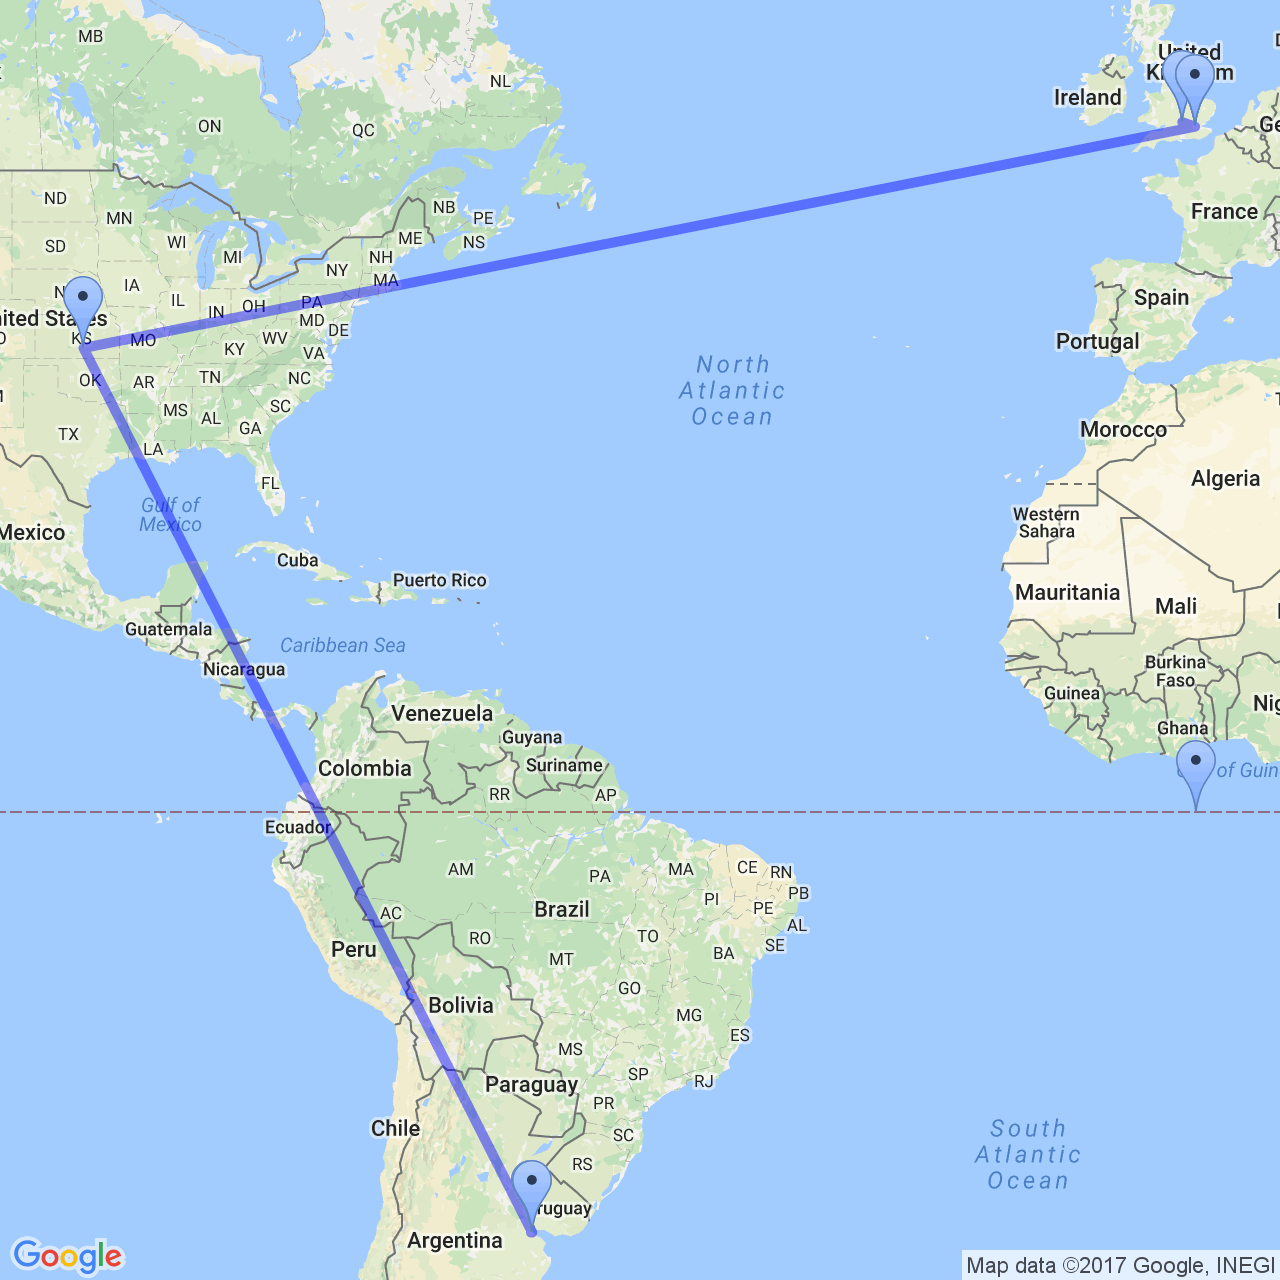
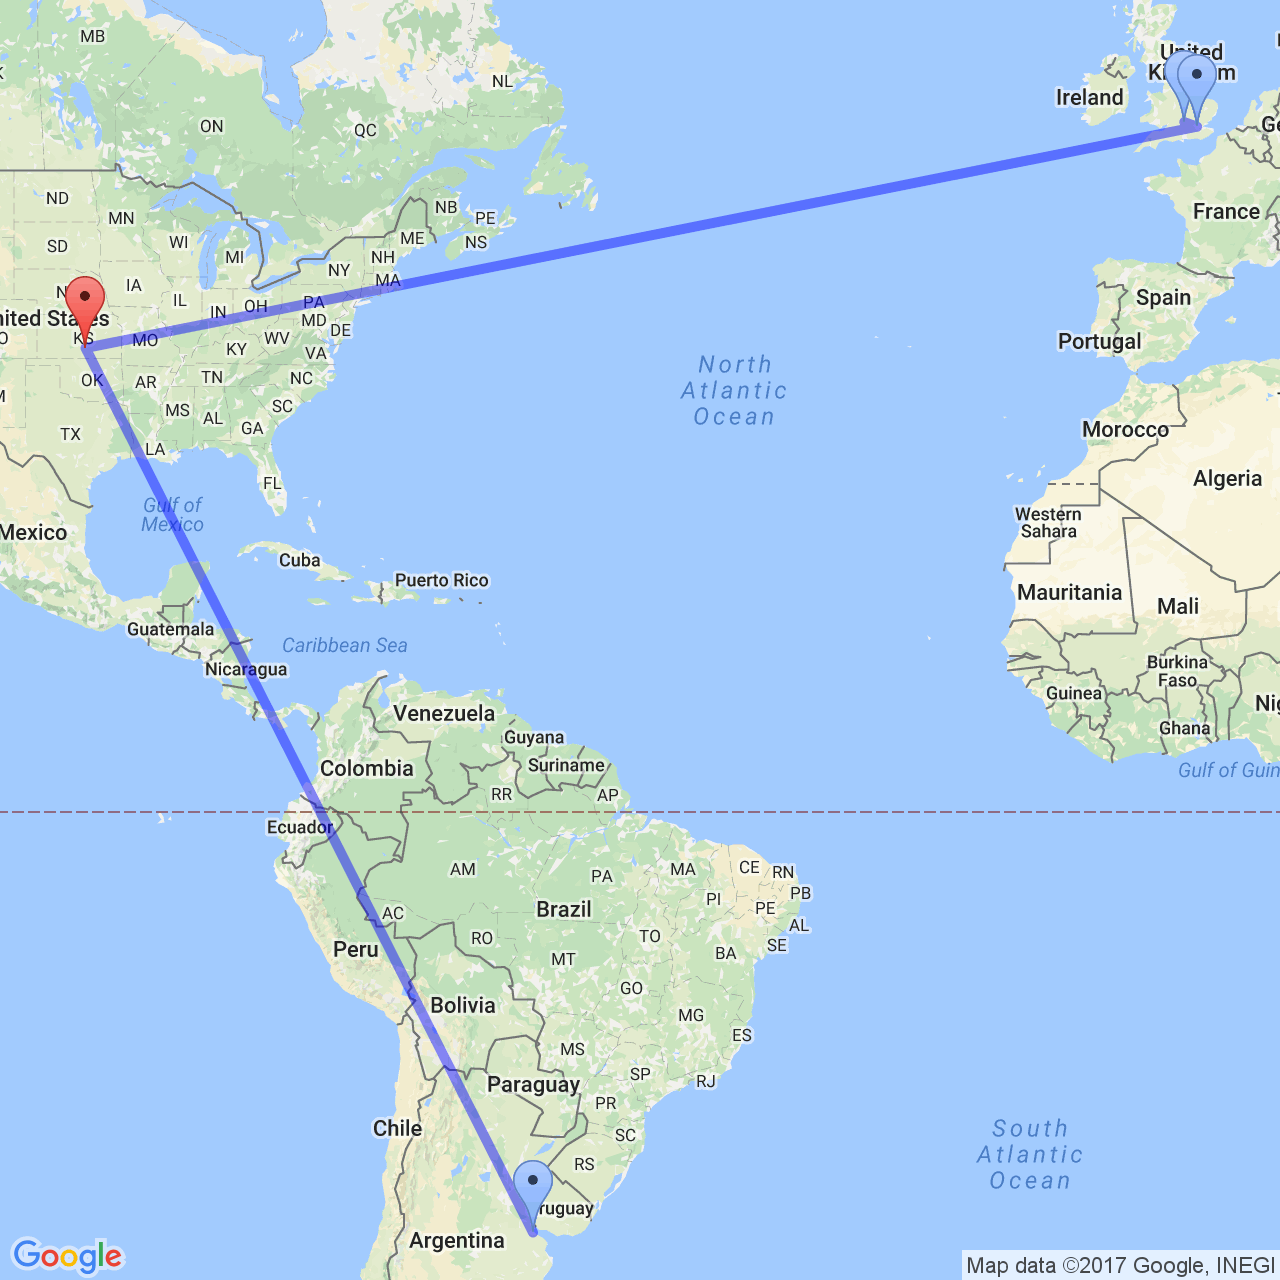
graficos y doc

diff --git a/tp2/src/tp2.py b/tp2/src/tp2.py
@@ -17,9 +17,6 @@ RTTS = 1
 
 SRC = 0
 
-DELTA = 0
-INDICE_IP = 1
-
 #arranca en 3
 tau = [
  	    1.1511 ,	
@@ -61,11 +58,14 @@ tau = [
 ]	
 
 class Hop():
-	def __init__(self, ip, rtt):
+	def __init__(self, ttl, ip, rtt):
 		self._ip = ip
-		self._rtt = float(rtt)
+		self._drtt = None
+		self._zrtt = None
+		self._rtt = rtt
 		self._outlier  = False
 		self._coords = None
+		self._ttl = ttl
 		
 	def IP(self):
 		return self._ip
@@ -81,11 +81,32 @@ class Hop():
 		
 	def RTT(self):
 		return self._rtt
-	def setOutlier(self, outlier = True):
+		
+	def TTL(self):
+		return self._ttl
+		
+	def setDeltaRTT(self, drtt):
+		self._drtt = drtt
+		
+	def deltaRTT(self):
+		return self._drtt 
+		 
+	def setZRTT(self, zrtt):
+		self._zrtt = zrtt
+		
+	def ZRTT(self):
+		return self._zrtt 
+		
+	def setOutlier(self, outlier = True, thresholdCrossed = None):
 		self._outlier = outlier
+		self._threshold = thresholdCrossed
+		
 	def isOutlier(self):
 		return self._outlier 
 	
+	def thresholdCrossed(self):
+		return self._threshold 
+		
 def toString(pkt):
 	return pkt.summary()
 	
@@ -106,18 +127,14 @@ def main():
 	iteraciones = int(args.get('maxiter'))
 	reply = False
 	saltos = [] # Hop[]
-	esta = [] # si la ip iesima esta considerada en el calculo de los delta. SI lo esta
-	#contiene al indice del arreglo rttsDelta. Si no, -1.
-	rttsZ = []
-	rttsDelta = [] # (Delta RTT, indice en saltos[IP])
-
+	
 	while hops > 0:
 	
 		respuestas=[[],[]] #[ips del ttl], [[rtts de esa ip]]]
 		
 
 		for x in range(0, iteraciones):
-			pid+=x
+			pid += x
 			ans, unans = sr(IP(dst=args.get('dest'), ttl=ttl) / ICMP(id = pid), verbose=False, timeout=float(args.get('timeout')))
 		
 			if len(ans) > 0:
@@ -135,18 +152,13 @@ def main():
 						break # llegamos
 
 		if not respuestas[IPS]: #Si nadie me respondio, no se cual es el hop.
-				respuestas[IPS].append(-1)
-				respuestas[RTTS].append([0])
-
-		#calculo datos del de mayor aparicion.
-
-		max_indice = respuestas[RTTS].index(max(respuestas[RTTS], key=len))
-		#print max_indice
-		#saco promedio.
-		media = np.mean(respuestas[RTTS][max_indice])
-
-		saltos.append(Hop(respuestas[IPS][max_indice], media))
-	
+			saltos.append(Hop(ttl, None, None))
+		else:
+			#calculo datos del de mayor aparicion.
+			max_indice = respuestas[RTTS].index(max(respuestas[RTTS], key=len))
+			media = np.percentile(respuestas[RTTS][max_indice], 90)
+			saltos.append(Hop(ttl, respuestas[IPS][max_indice], media))
+			
 		if reply:
 			break
 
@@ -155,117 +167,70 @@ def main():
 
 	####### Calculo diferencia entre saltos #####
 
-	max_rtts_Delta = next(x for x in saltos if x.RTT() > 0) # DR: max? primero con valor logico?
-	indice_max_rtts_Delta = saltos.index(max_rtts_Delta)
-	#rttsDelta.append((max_rtts_Delta, indice_max_rtts_Delta))
-	for j in range(0,indice_max_rtts_Delta+1):
-		esta.append(-1)
-	#esta.append(-1)
-
-	for i in range(indice_max_rtts_Delta+1,len(saltos)):
-
-		if saltos[i].IP() == -1:	#no contestaron.
-			esta.append(-1)
+	saltos_analizables = [x for x in saltos if not x.RTT() is None and not x.IP() is None]
+	ultimo_salto_delta = None
+	for i in saltos_analizables:
+		if ultimo_salto_delta is None:
+			ultimo_salto_delta = i
 			continue
-		dif = saltos[i].RTT()-max_rtts_Delta.RTT() #calculo dif entre saltos
-		if dif >= 0: #agrego solo si da mayor o igual.
-			rttsDelta.append((dif,i))
-			esta.append(len(rttsDelta)-1)	#appendeo el indice donde esta la iesima ip en rttsDelta
-			max_rtts_Delta = saltos[i]
-		else:
-			esta.append(-1)	
-
+		dif = i.RTT() - ultimo_salto_delta.RTT()
+		if dif > 0:
+			i.setDeltaRTT(dif)
+		ultimo_salto_delta = i
+			
+	rttsDelta = [x.deltaRTT() for x in saltos if not x.deltaRTT() is None]
 	rttDeltaPromedio = np.mean(rttsDelta)  #promedio y desvio de los saltos.
 	rttDeltaDesvio = np.std(rttsDelta)	
-
-	## Zrtt
-
-	for i in range(0,len(rttsDelta)):
-		#if esta[i]:
-		rttsZ.append(abs(rttsDelta[i][DELTA]-rttDeltaPromedio)/rttDeltaDesvio)
-
+	
+	for i in saltos_analizables:
+		if not i.deltaRTT() is None:
+			i.setZRTT((abs(i.deltaRTT()-rttDeltaPromedio)/rttDeltaDesvio))
+	
 	#calculo  de outliers
 	hay_outlier = True
-	rttsDelta_outlier = rttsDelta #para iterar en el otulier
-
 
 	while(hay_outlier):
 		desv_abs = []
-
+		posibles_outliers = [x for x in saltos_analizables if not x.deltaRTT() is None and not x.isOutlier()]
 		#calculo la desvio absoluto de los delta que quedan y los ordeno.
-		for x in range(0,len(rttsDelta_outlier)):			
-			bisect.insort(desv_abs,(abs(rttsDelta_outlier[x][DELTA]-rttDeltaPromedio),rttsDelta_outlier[x][INDICE_IP]))
+		for x in posibles_outliers:	
+			bisect.insort(desv_abs,(abs(x.deltaRTT()-rttDeltaPromedio), x))
 	
 		#Calculo tau de Thompson
 		thompson = tau[len(desv_abs)-3]
 
 		#outlier. Si el mas grande es mayor a tau por el desvio.
-		desv_abs_mas_grande = desv_abs[-1]
-		if desv_abs_mas_grande[DELTA] > (thompson*rttDeltaDesvio):
-			# del(rttsDelta_outlier[esta[desv_abs[-1][INDICE_IP]]])
-			#del(rttsDelta_outlier[esta[desv_abs[-1][INDICE_IP]]])
-			#Lo marco como outlier
-			saltos[desv_abs_mas_grande[INDICE_IP]].setOutlier(True)
-
-			#Lo borro de la lista de desvios absolutos
-			#rttsDelta_outlier = [(x for x in saltos[RTTS] if x[INDICE_IP] == desv_abs[-1][IND
-			
-			for x in xrange(1,10):
-					pass	
-			rttsDelta_outlier = [x for x in rttsDelta_outlier if x[INDICE_IP] != desv_abs_mas_grande[INDICE_IP]]
-
-			#Recalculo promedo y desvio y vuelvo a empezar
-			temp = [y[DELTA] for y in rttsDelta_outlier]
-			promedio_outlier = np.mean(temp) # DR ??
-			desvio_outlier = np.std(temp)
-
+		(delta, salto) = desv_abs[-1]
+		if delta > (thompson * rttDeltaDesvio):
+			salto.setOutlier(True, thresholdCrossed = thompson * rttDeltaDesvio)
 		else: 
+			print salto.IP(), "no llego a", thompson * rttDeltaDesvio, "con", delta
 			hay_outlier = False
 
 	#imprimo resultados.		
 		
 	col_width_ips_avg = max(len(str(word.IP())) for word in saltos) + 2
 	col_width_rtts_acum = max(len(str(word.RTT())) for word in saltos) + 2
-	col_width_rtt_delta = max(len(str(word)) for word in rttsDelta) + 2
-	col_width_rtt_z = max(len(str(word)) for word in rttsZ) + 2
+	col_width_rtt_delta = max(len(str(word.deltaRTT())) for word in saltos) + 2
+	col_width_rtt_z = max(len(str(word.ZRTT())) for word in saltos) + 2
 
-	print "TTL".ljust(8), \
+	print "TTL".ljust(6), \
 	"IP".ljust(col_width_ips_avg), \
 	"RTT".ljust(col_width_rtts_acum), \
 	"dRTT".ljust(col_width_rtt_delta), \
 	"zdRTT".ljust(col_width_rtt_z), \
 	"OUTLIER? "
 
-	imprimio = False
 	points = []
-	for i in range(len(saltos)):
-		imprimio = True
-		responde = saltos[i].IP() 
-			#Si responde y si lo hace, devuelve indice de esa ip en la lista de deltas.
-		if responde != -1: #responde
-			delta_index = esta[i]
-			if delta_index != -1: # se lo considera en el calculo del delta.
-				print str(i).ljust(8), \
-				str(saltos[i].IP()).ljust(col_width_ips_avg), \
-				str(saltos[i].RTT()).ljust(col_width_rtts_acum), \
-				str(rttsDelta[delta_index][DELTA]).ljust(col_width_rtt_delta), \
-				str(rttsZ[delta_index]).ljust(col_width_rtt_z), \
-				"OUTLIER!" if saltos[i].isOutlier() else ""
-				points.append(saltos[i])
-			else:
-				print str(i).ljust(8), \
-				str(saltos[i].IP()).ljust(col_width_ips_avg), \
-				str(saltos[i].RTT()).ljust(col_width_rtts_acum), \
-				str(-1).ljust(col_width_rtt_delta), \
-				str(-1).ljust(col_width_rtt_z)
-				points.append(saltos[i])
-				
-		else: #No responde
-			print str(i).ljust(8), \
-			str("???").ljust(col_width_ips_avg), \
-			"NA".ljust(col_width_rtts_acum), \
-			"NA".ljust(col_width_rtt_delta), \
-			"NA".ljust(col_width_rtt_z)
+	for i in saltos:
+		print str(i.TTL()).ljust(6), \
+				strDisplay(i.IP(), "?").ljust(col_width_ips_avg), \
+				numDisplay(i.RTT(), suffix= "ms").ljust(col_width_rtts_acum), \
+				numDisplay(i.deltaRTT(), suffix= "ms").ljust(col_width_rtt_delta), \
+				numDisplay(i.ZRTT()).ljust(col_width_rtt_z), \
+				"OUTLIER!" if i.isOutlier() else ""
+		if not i.IP() is None:
+			points.append(i)
 	
 	if bool(args.get('graficar-rutas')):
 		imgs = graficarMapas(points)
@@ -275,21 +240,32 @@ def main():
 	if bool(args.get('graficar-rtts')):
 		graficarInfo(points)
 		
+def numDisplay(obj, default = "-", suffix = ""):
+	if obj is None:
+		return default
+	return str(round(float(obj), 2)) + " " + suffix
+	
+def strDisplay(obj, default = "-", suffix = ""):
+	if obj is None:
+		return default
+	return str(obj) + suffix
+	
 def graficarInfo(points):
 	ind = range(len(points))
 	fig, ax = plt.subplots()
 	ax.bar(ind, [x.RTT() for x in points], 0.75)
-	rtts=plt.axhline(y=1, label='tau', color='red', ls='--') # TODO
-	plt.legend(handles=[rtts])
+	tau = [x.thresholdCrossed() for x in points if x.isOutlier()]
+	if len(tau) > 0:
+		minTau = min(tau)
+		tauLine = plt.axhline(y=tau, label='threshold', color='green', ls='--')
+		plt.legend(handles=[tauLine])
 	plt.xticks(list(map(lambda x: x-0.4, ind)), [x.IP() for x in points], rotation=45)
-	ax.set_title("TODO")
-	ax.set_ylabel('rtts', color='b')
+	ax.set_title("Saltos vs RTTs")
+	ax.set_ylabel('RTT (ms)', color='b')
 	
-	#TODO
-	#ax_twinx = ax.twinx()
-	#s2 = np.sin(2 * np.pi * t)
-	#ax_twinx.plot(t, s2, 'r.')
-	#ax_twinx.set_ylabel('sin', color='r')
+	ax_twinx = ax.twinx()
+	ax_twinx.plot(ind, [0 if x.ZRTT() is None else x.ZRTT() for x in points], 'r-', linewidth=3)
+	ax_twinx.set_ylabel('ZRTT (ms)', color='r')
 	
 	plt.tight_layout()
 	plt.show()
@@ -303,6 +279,7 @@ def graficarMapas(points):
 			if len(temp) > 1:
 				imgs.append(graficarMapa(temp))
 			temp = []
+			continue
 		if not p in temp:
 			temp.append(p)
 		
@@ -321,7 +298,7 @@ def graficarMapa(points):
 			continue
 		(lt, ln) = coords
 		paths += ("" if first else "|") + str(lt) + "," + str(ln)
-		markers += "&markers=color:blue|label:" + p.IP() + "|" + str(lt) + "," + str(ln)
+		markers += "&markers=color:"+ ("red" if p.isOutlier() else "blue" )+"|label:" + p.IP() + "|" + str(lt) + "," + str(ln)
 		first = False
 	return img + paths + markers
 	

diff --git a/tp2/docs/informe/modules/Experimentos_UK.tex b/tp2/docs/informe/modules/Experimentos_UK.tex
@@ -1,2 +1,69 @@
-\subsection{UK}
+\subsection{Gran Breta~na}
+En esta instancia de experimentaci'on vamos a analizar las rutas a la universidad de Oxford, ubicada en Inglaterra, utilizando la direcci'on \textit{ox.ac.uk}. 
+El origen del mensaje es una direcci'on en Argentina y en un principio esperamos, basados en los mapas de cables submarinos, ver 2 o m'as saltos intercontinentales. Si bien
+existen caminos con 2 saltos intercontinentales, podria ser 3 si una ruta pasa por europa continental. 
 
+Utilizando 30 repeticiones por cada TTL conseguimos los siguientes datos
+
+
+\begin{tabular}{ |p{2cm}||p{3cm}|p{3cm}|p{3cm}|  }
+ \hline
+ \multicolumn{4}{|c|}{Traceroute a Oxford} \\
+ \hline
+ \textit{TTL} & \textit{IP}  & \textit{RTT} & $\delta$\textit{RTT} \\
+ \hline
+ 0   & 192.168.1.1   & 2.18 ms &   -\\
+ 1   & Sin respuesta  & - &   -\\
+ 2   & Sin respuesta  & - &   -\\
+ 3   & Sin respuesta  & - &   -\\
+ 4   & Sin respuesta   & - &   -\\
+ 5   & 200.89.161.97  & 31.49 ms &  29.3 ms\\
+ 6   & 200.89.165.197  & 29.2 ms &  - \\
+ 7   & 200.89.165.222  & 34.88 ms &  3.4 ms\\
+ 8   & Sin respuesta  & - &   -\\
+ 9   & 67.17.94.249 x & 24.74 ms &  22.7 ms\\
+ 10   & Sin respuesta   & - &   -\\
+ 11   & Sin respuesta   & - &   -\\
+ 12   & 212.187.139.166  & 24.74 ms &  22.7 ms\\
+ 13   & 146.97.35.197   & 24.74 ms &  22.7 ms\\
+ 14   & 1146.97.33.2  & 24.74 ms &  22.7 ms\\
+ 15   & 146.97.37.194   & 24.74 ms &  22.7 ms\\
+ 16   & 193.63.108.94   & 24.74 ms &  22.7 ms\\
+ 17   & 193.63.108.98   & 24.74 ms &  22.7 ms\\
+ 18   & 193.63.109.90   & 24.74 ms &  22.7 ms\\
+ 19   & Sin respuesta   & - &   -\\
+ 20   & 192.76.32.62   & 24.74 ms &  22.7 ms\\
+ 21   & 129.67.242.154   & 24.74 ms &  22.7 ms\\
+ \hline
+\end{tabular}
+
+
+Los paquetes con \textit{TTL} 1 a 4 pertenecientes al proveedor de internet no responden 
+(sabemos esto ya que los siguientes tambi'en pertenecen al proveedor) creemos que es porque son dispositivos que priorizan otras tareas y deciden no
+responder con un mensaje utilizando sus recursos m'as eficientemente.
+
+TODO Mencionar outliers, saltos pelotudos que son menores que sus antecesores, saltos intercontinentales, clusters.
+
+
+\begin{figure}[!h]
+\centering
+\caption{TODO}
+\includegraphics[width=0.75\textwidth]{modules/oxford_rtts}
+ \label{fig:oxford_rtts}
+\end{figure}
+
+
+\begin{figure}[!h]
+\centering
+\caption{TODO}
+\includegraphics[width=0.75\textwidth]{modules/oxford_path_1}
+ \label{fig:ruta_oxford_1}
+\end{figure}
+
+
+\begin{figure}[!h]
+\centering
+\caption{TODO}
+\includegraphics[width=0.75\textwidth]{modules/oxford_path_2}
+ \label{fig:ruta_oxford_2}
+\end{figure}
